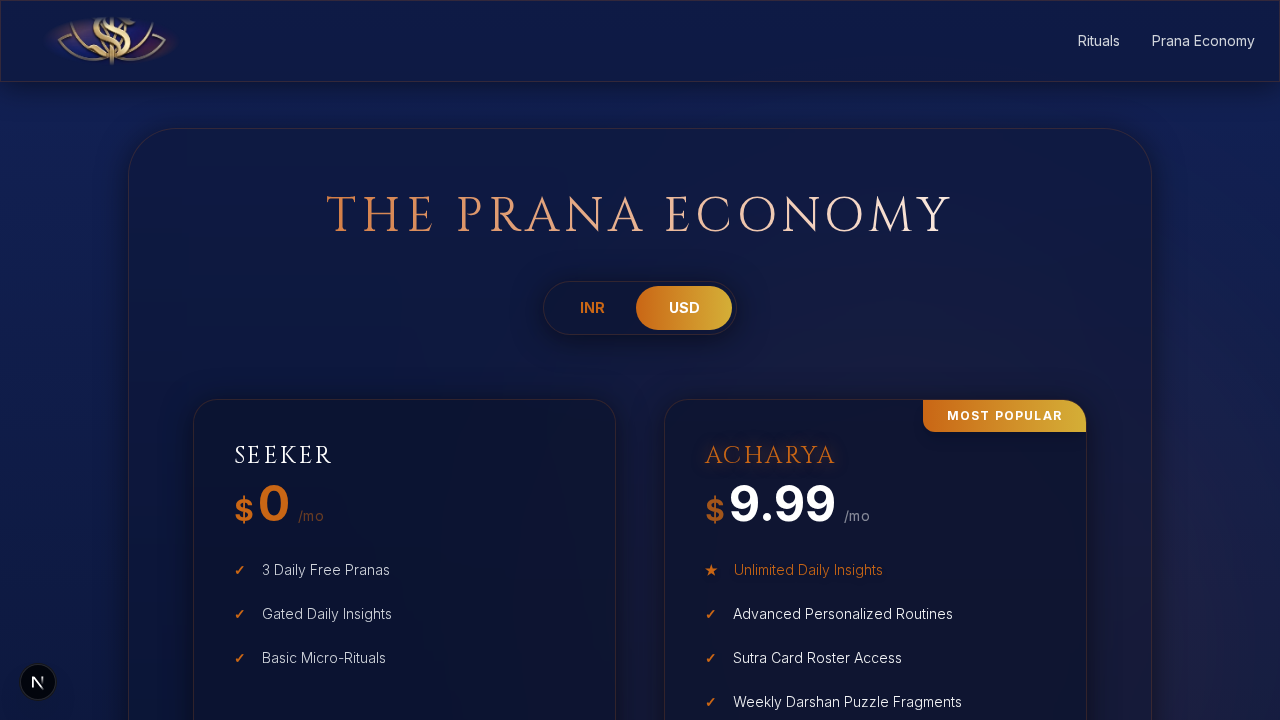
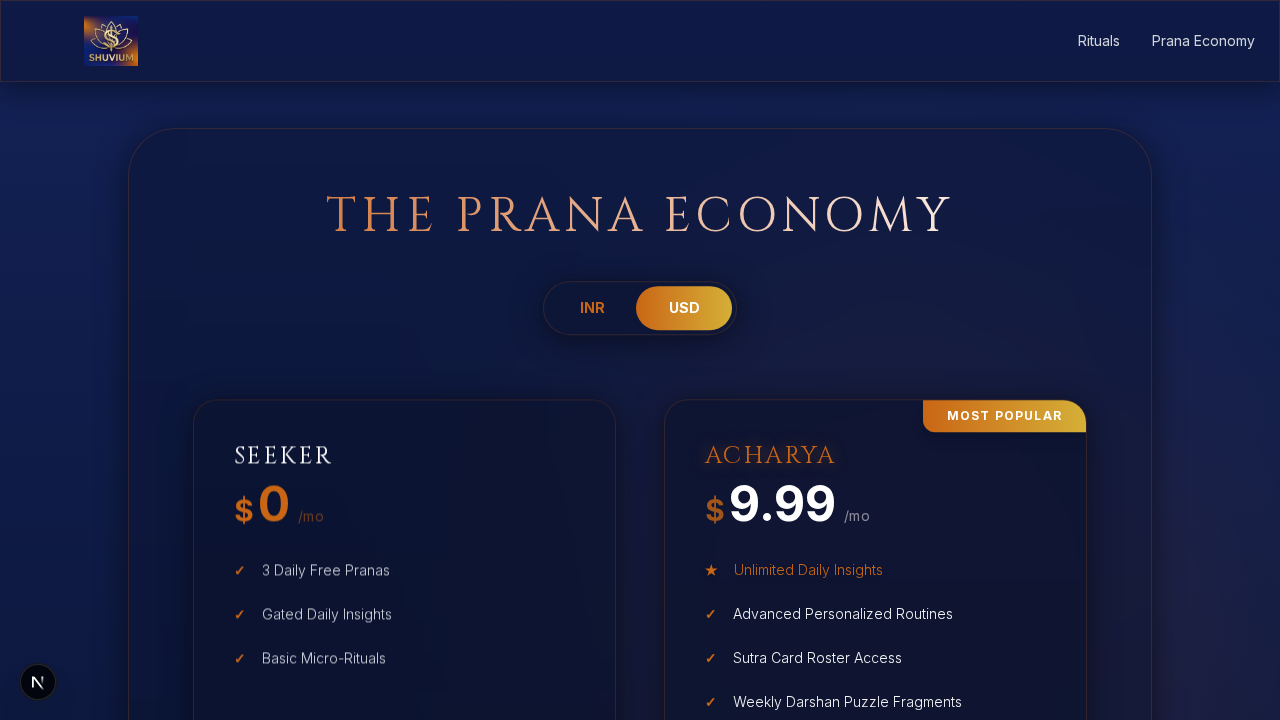
fix: restore premium aesthetic regressions
- Update Header to use correct logo.png without CSS masks
- Restore gold pulsing box-shadow to Hero card
- Replace default Vercel favicon with custom logo

diff --git a/src/components/Hero.tsx b/src/components/Hero.tsx
@@ -64,9 +64,24 @@ export default function Hero() {
       {/* Glassmorphic Container */}
       <motion.div
         initial={{ opacity: 0, y: 30 }}
-        animate={{ opacity: 1, y: 0 }}
-        transition={{ duration: 1.5, ease: "easeOut" }}
-        className="relative z-10 w-[90%] max-w-2xl mx-auto glass-card rounded-2xl p-8 md:p-16 flex flex-col items-center text-center mt-20"
+        animate={{
+          opacity: 1,
+          y: 0,
+          boxShadow: [
+            "0px 0px 20px rgba(212, 175, 55, 0.1)",
+            "0px 0px 40px rgba(212, 175, 55, 0.3)",
+            "0px 0px 20px rgba(212, 175, 55, 0.1)"
+          ]
+        }}
+        transition={{
+          duration: 1.5, ease: "easeOut",
+          boxShadow: {
+            duration: 4,
+            repeat: Infinity,
+            ease: "easeInOut"
+          }
+        }}
+        className="relative z-10 w-[90%] max-w-2xl mx-auto glass-card rounded-2xl p-8 md:p-16 flex flex-col items-center text-center mt-20 border border-shuvium-gold/30"
       >
         <h1 className="font-cinzel text-4xl md:text-6xl mb-6 tracking-[0.15em] bg-gradient-to-r from-shuvium-gold via-shuvium-orange to-white bg-clip-text text-transparent uppercase text-glow-orange">
           Align Your Daily Energy

diff --git a/src/components/Header.tsx b/src/components/Header.tsx
@@ -8,16 +8,12 @@ export default function Header() {
         <Link
           href="/"
           className="flex items-center ml-2 md:ml-4 relative w-[140px] h-[50px]"
-          style={{
-            maskImage: "radial-gradient(ellipse at center, black 40%, transparent 70%)",
-            WebkitMaskImage: "radial-gradient(ellipse at center, black 40%, transparent 70%)"
-          }}
         >
           <Image
-            src="/logo.jpg"
+            src="/logo.png"
             alt="Shuvium Logo"
             fill
-            className="object-cover"
+            className="object-contain"
             priority
           />
         </Link>
